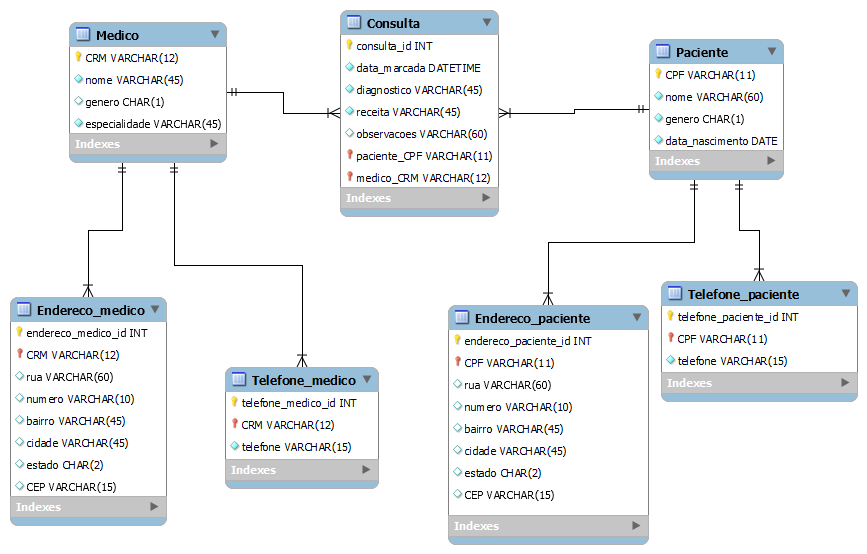
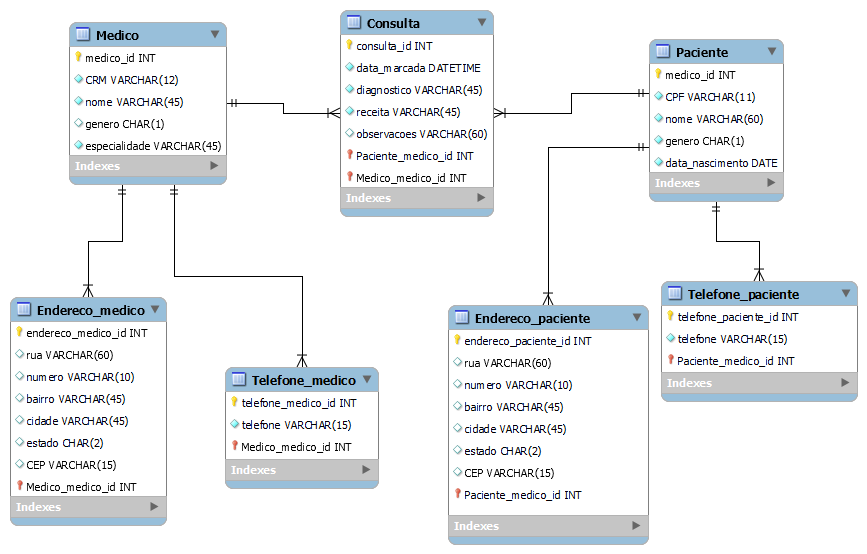
add: alterando a chave primaria das entidades medico e paciente do modelo alternativo

diff --git a/Database/aulas/atividade05/versao_alternativa/README.md b/Database/aulas/atividade05/versao_alternativa/README.md
@@ -6,20 +6,21 @@ Este projeto implementa o sistema de gerenciamento de uma clínica médica alter
 ### Tabelas
 
 1. **Médico**
-    - **CRM (INT, Primary Key)**: Número de registro no Conselho Regional de Medicina.
+    - **medico_id (INT, Primary Key)**: Identificador único do médico.
+    - **CRM (VARCHAR(12))**: Número de registro no Conselho Regional de Medicina.
     - **nome (VARCHAR(60), NOT NULL)**: Nome do médico.
     - **genero (CHAR(1))**: Gênero do médico.
     - **especialidade (VARCHAR(45), NOT NULL)**: Especialidade médica.
 
 2. **Paciente**
-    - **CPF (VARCHAR(11), Primary Key)**: Número de CPF do paciente.
-    - **nome (VARCHAR(60), NOT NULL)**: Nome do paciente.
+    - **paciente_id (INT, Primary Key)**: Identificador único do paciente.
+    - **CPF (VARCHAR(11))**: Número de CPF do paciente.
     - **genero (CHAR(1), NOT NULL)**: Gênero do paciente.
     - **data_nascimento (DATE)**: Data de nascimento do paciente.
 
 3. **Endereço Médico**
     - **endereco_id (INT, Primary Key, AUTO_INCREMENT)**: Identificador do endereço.
-    - **CRM (INT)**: Chave estrangeira referenciando a tabela Médico.
+    - **medico_id (INT)**: Chave estrangeira referenciando a tabela Médico.
     - **rua (VARCHAR(60))**: Rua do endereço.
     - **numero (VARCHAR(10))**: Número do endereço.
     - **bairro (VARCHAR(45))**: Bairro do endereço.
@@ -29,7 +30,7 @@ Este projeto implementa o sistema de gerenciamento de uma clínica médica alter
 
 4. **Endereço Paciente**
     - **endereco_id (INT, Primary Key, AUTO_INCREMENT)**: Identificador do endereço.
-    - **CPF (VARCHAR(11))**: Chave estrangeira referenciando a tabela Paciente.
+    - **paciente_id (INT)**: Chave estrangeira referenciando a tabela Paciente.
     - **rua (VARCHAR(60))**: Rua do endereço.
     - **numero (VARCHAR(10))**: Número do endereço.
     - **bairro (VARCHAR(45))**: Bairro do endereço.
@@ -39,12 +40,12 @@ Este projeto implementa o sistema de gerenciamento de uma clínica médica alter
 
 5. **Telefone Médico**
     - **telefone_id (INT, Primary Key, AUTO_INCREMENT)**: Identificador do telefone.
-    - **CRM (INT)**: Chave estrangeira referenciando a tabela Médico.
+    - **medico_id (INT)**: Chave estrangeira referenciando a tabela Médico.
     - **telefone (VARCHAR(14), NOT NULL)**: Número de telefone.
 
 6. **Telefone Paciente**
     - **telefone_id (INT, Primary Key, AUTO_INCREMENT)**: Identificador do telefone.
-    - **CPF (VARCHAR(11))**: Chave estrangeira referenciando a tabela Paciente.
+    - **paciente_id (INT)**: Chave estrangeira referenciando a tabela Paciente.
     - **telefone (VARCHAR(14), NOT NULL)**: Número de telefone.
 
 7. **Consulta**
@@ -53,8 +54,8 @@ Este projeto implementa o sistema de gerenciamento de uma clínica médica alter
     - **diagnostico (VARCHAR(45))**: Diagnóstico médico.
     - **receita (VARCHAR(45))**: Receita médica prescrita.
     - **observacoes (VARCHAR(60))**: Observações pertinentes.
-    - **medico_CRM (INT)**: Chave estrangeira referenciando a tabela Médico.
-    - **paciente_CPF (VARCHAR(11))**: Chave estrangeira referenciando a tabela Paciente.
+    - **medico_id (INT)**: Chave estrangeira referenciando o ID do médico na tabela Médico.
+    - **paciente_id (INT)**: Chave estrangeira referenciando o ID do paciente na tabela Paciente.
 
 ## Modelo de Entidade-Relacionamento Derivado (DER)
 
